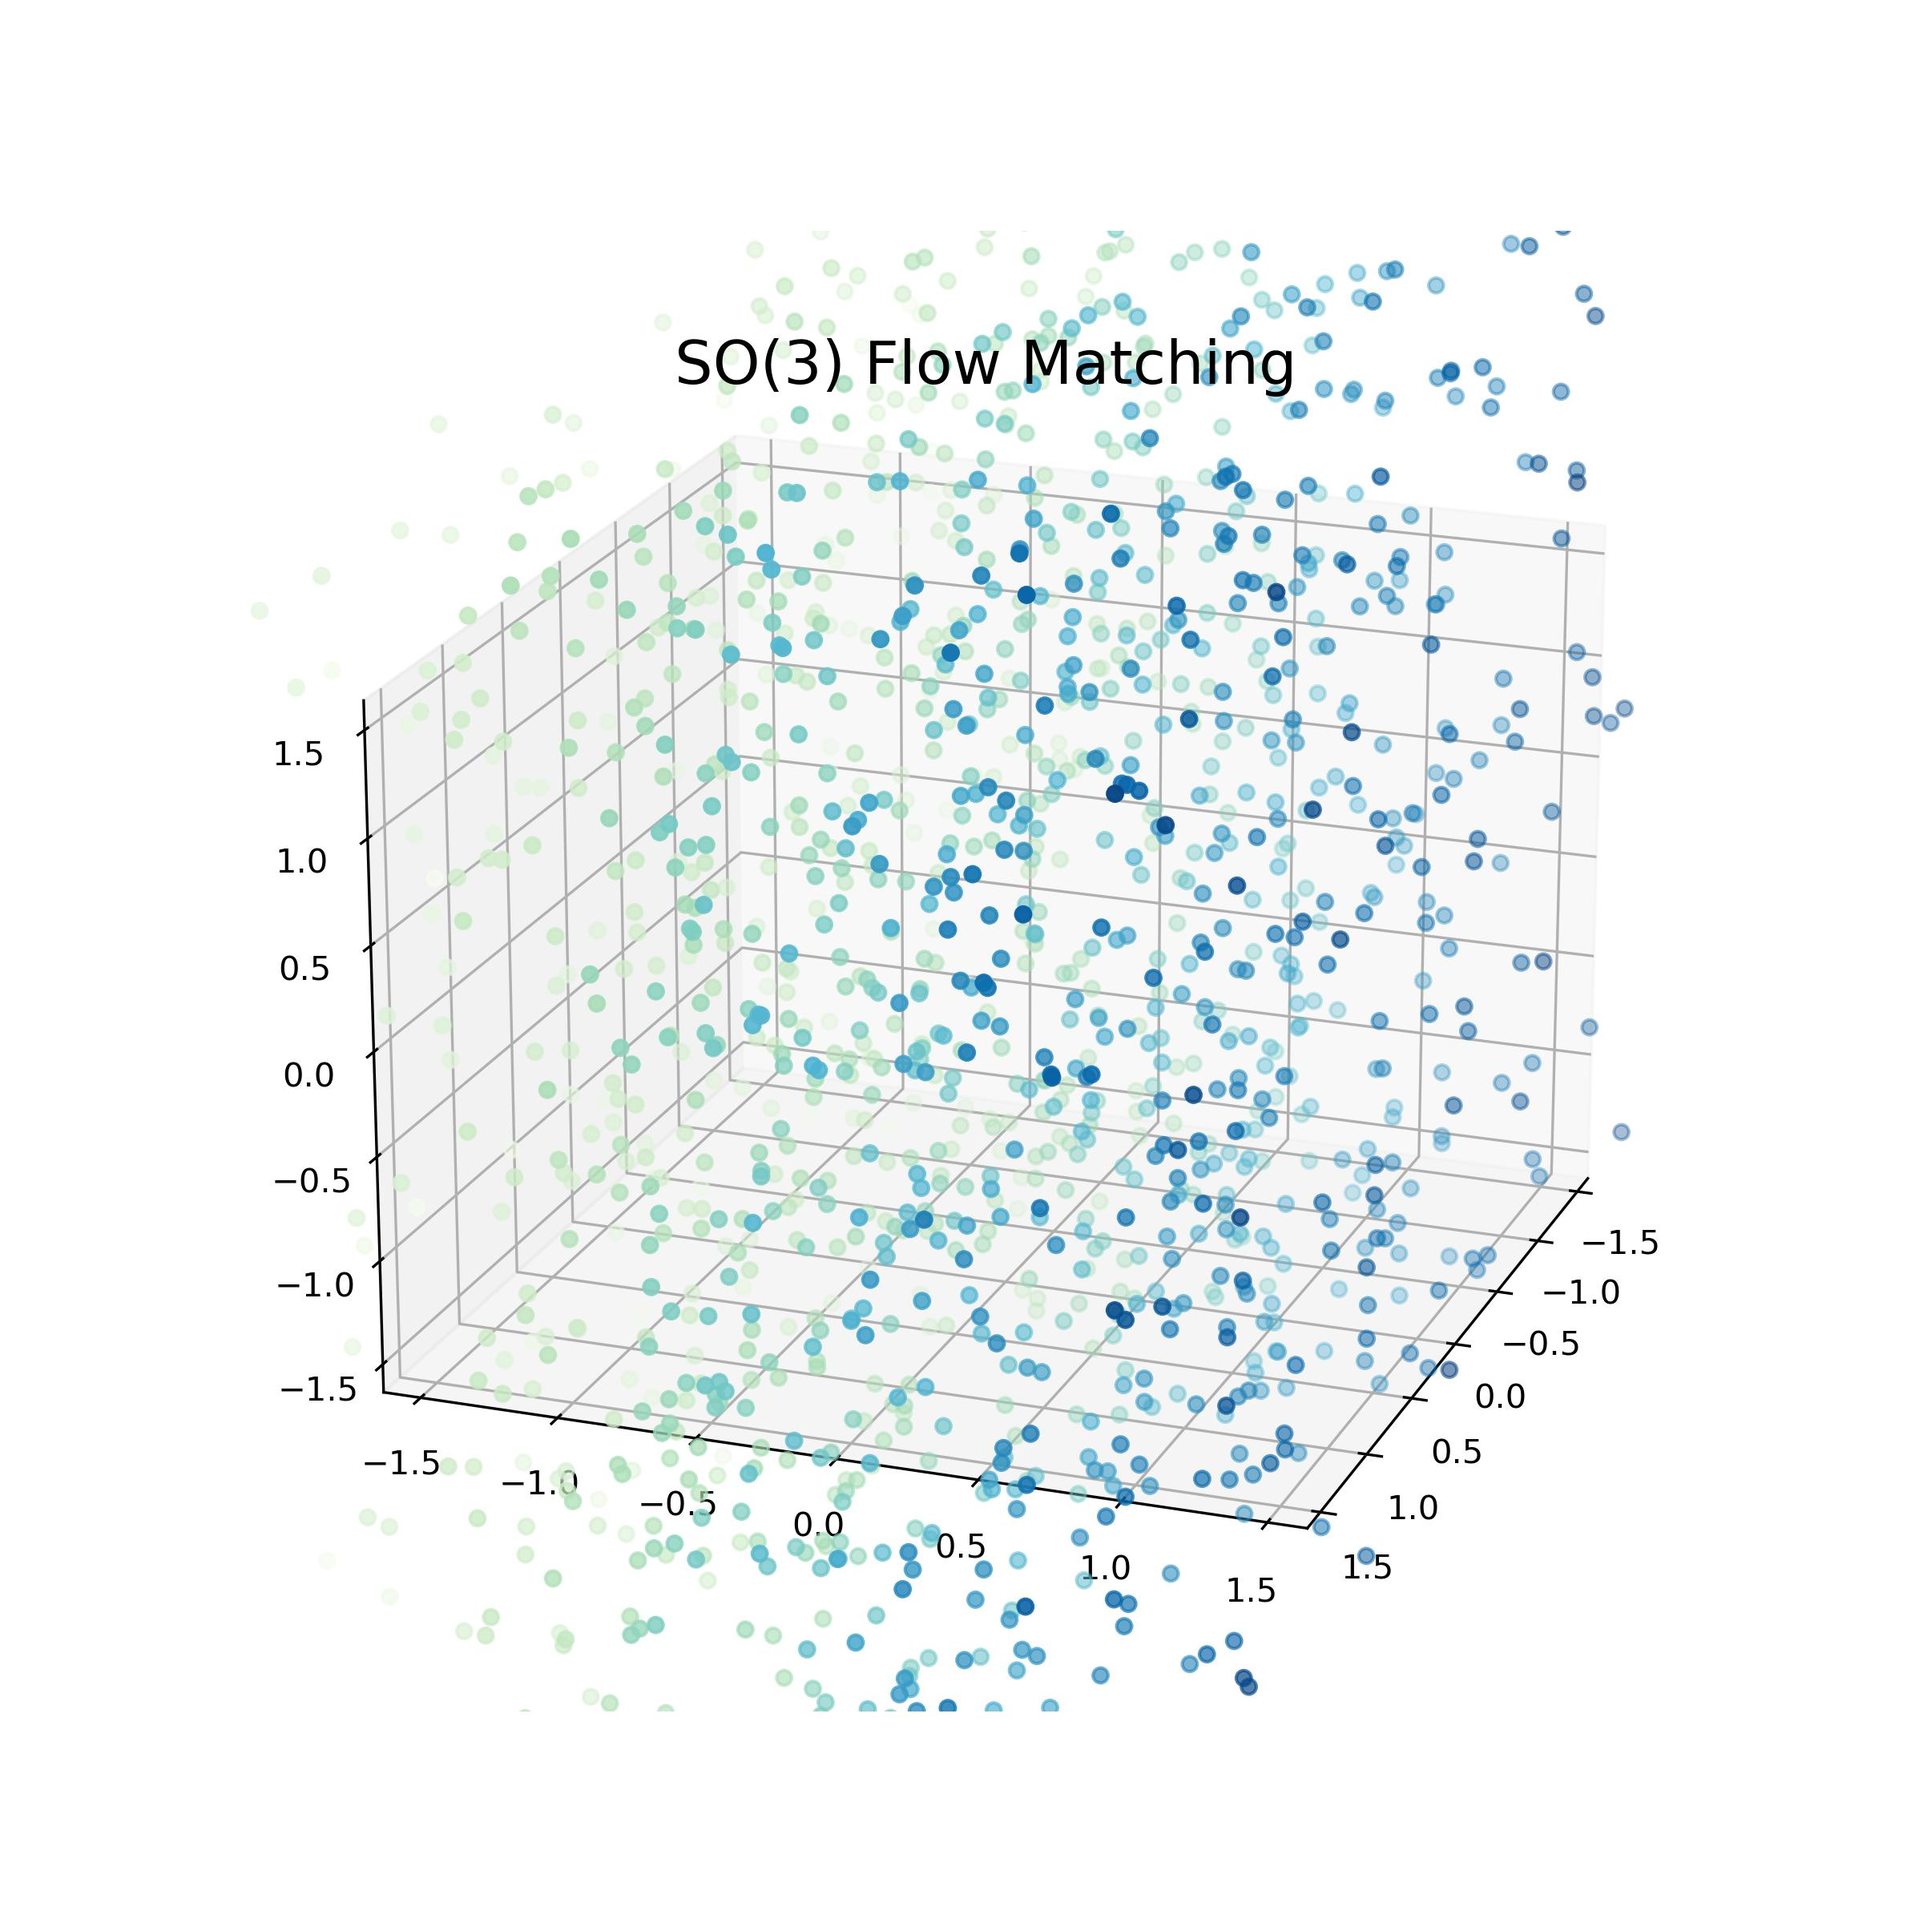
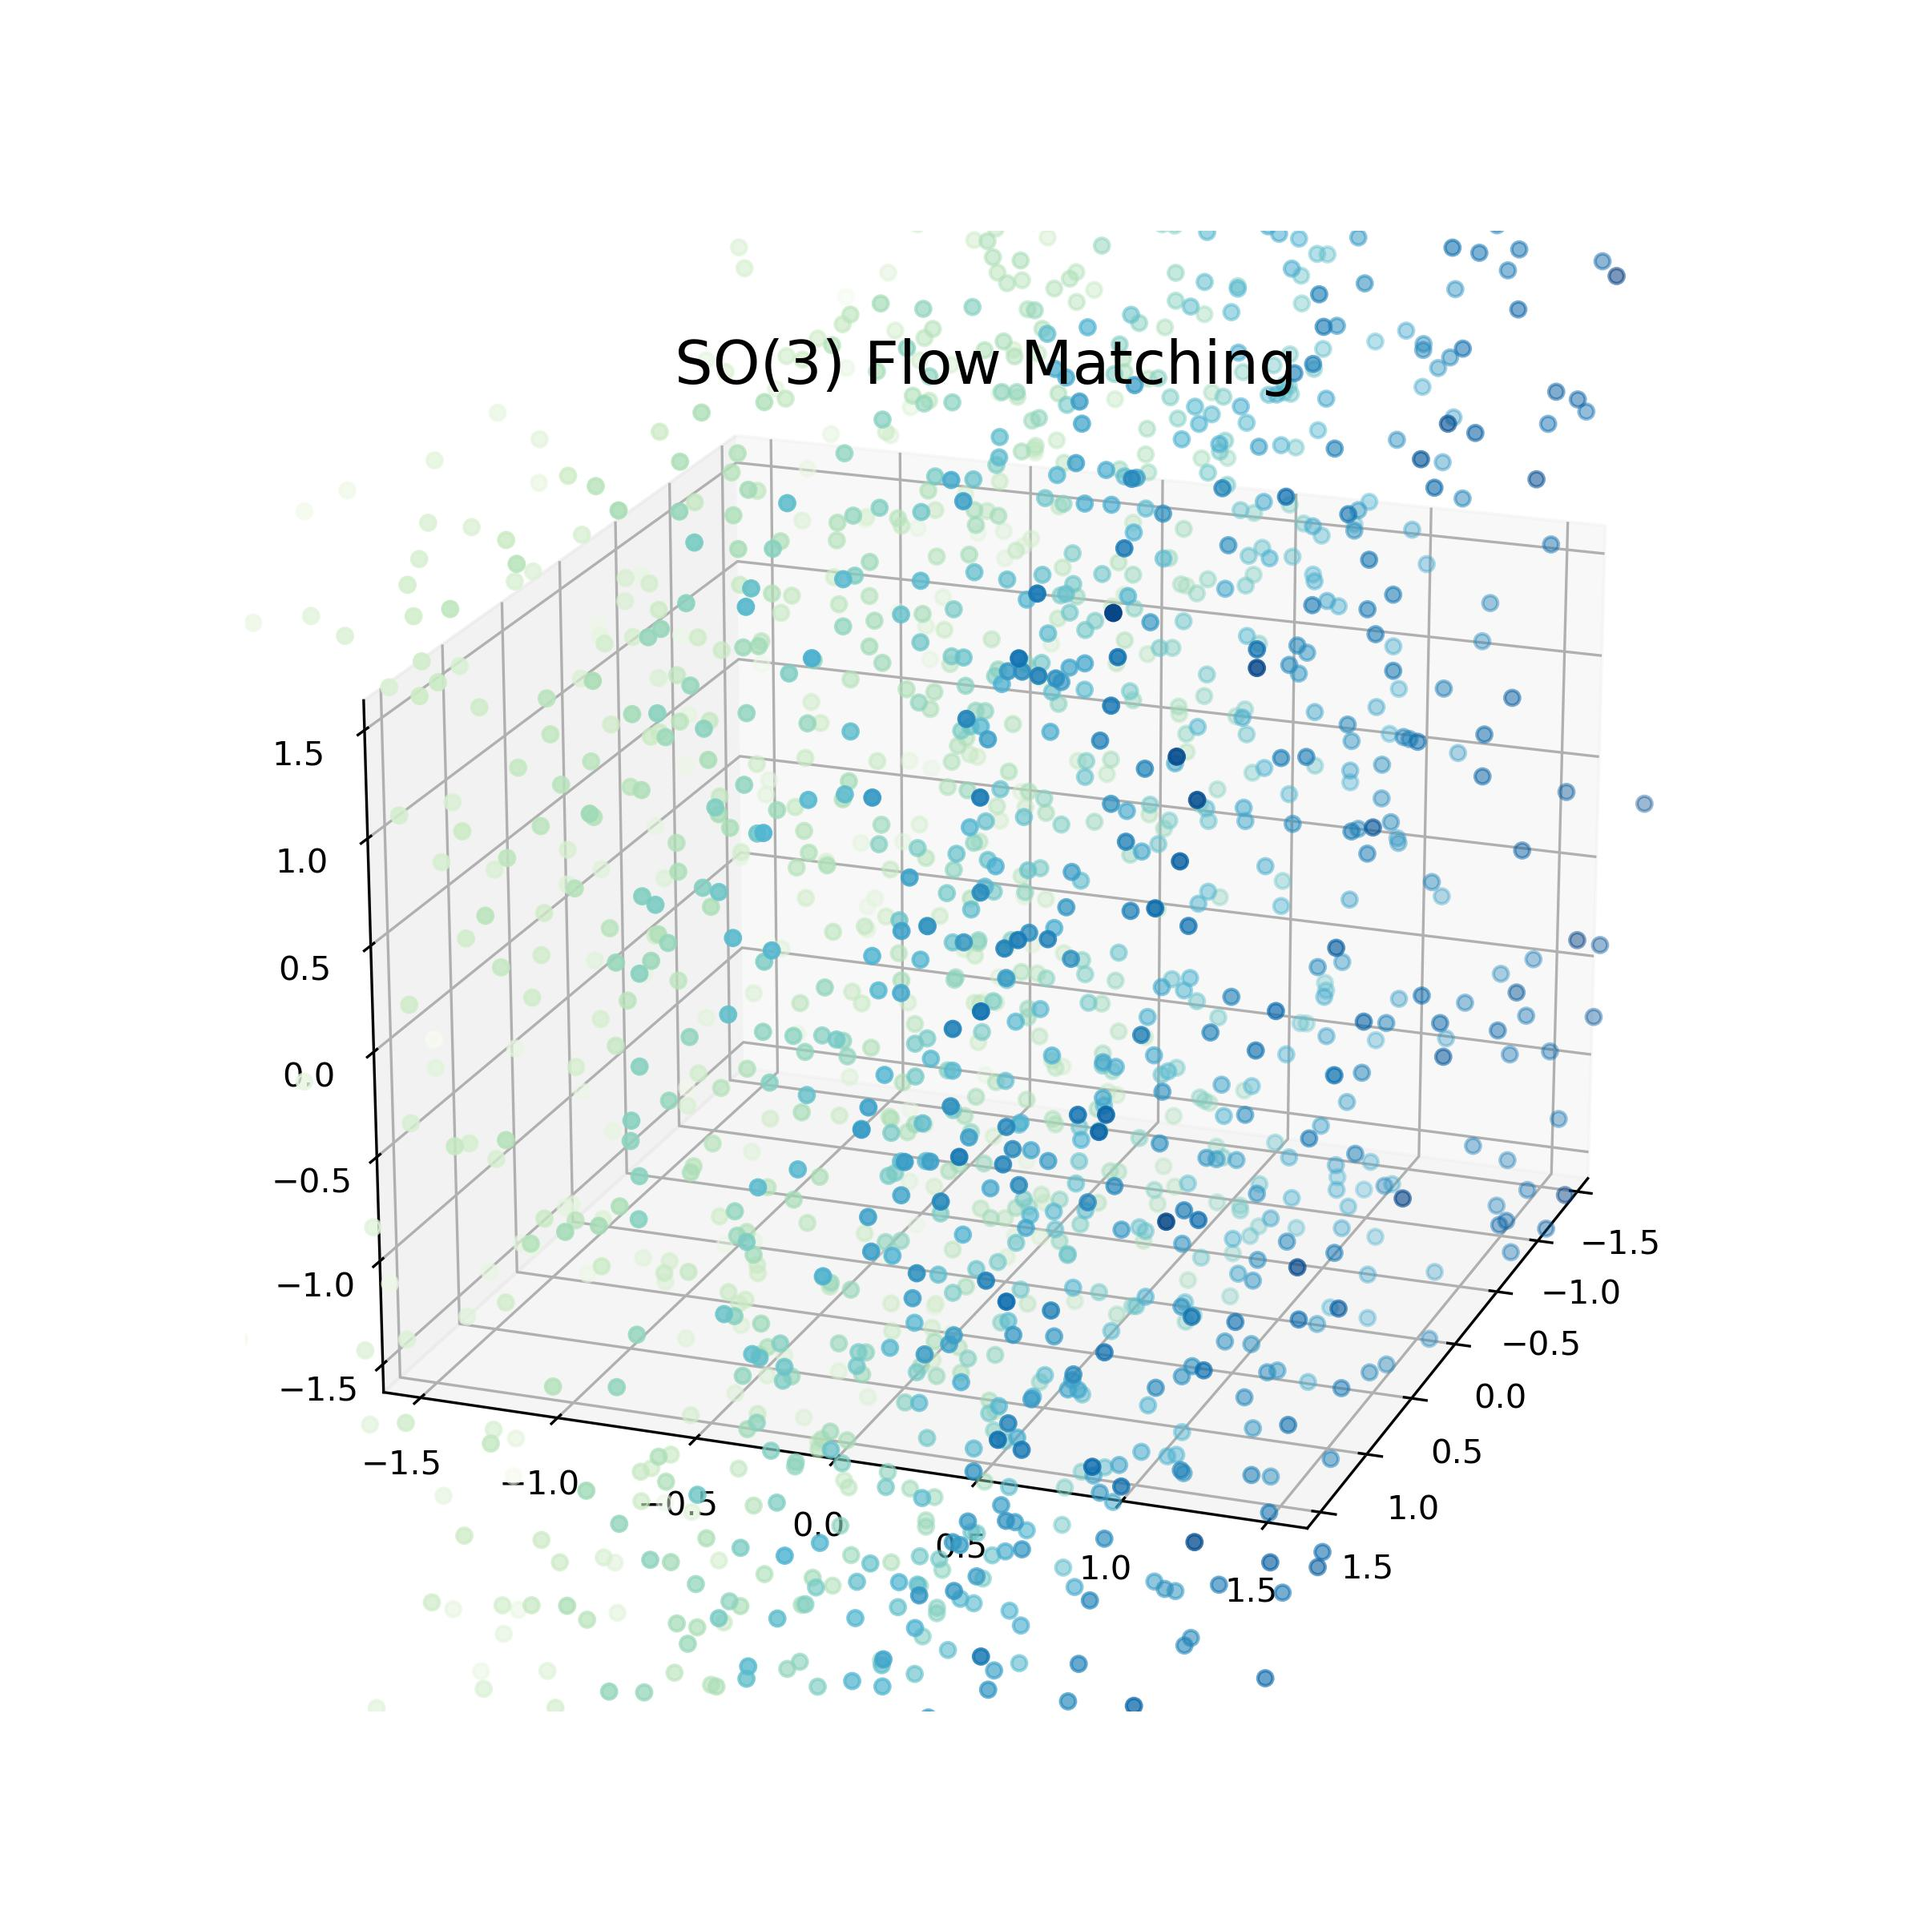
r3 exp done

diff --git a/mathematics/r3_experiments/r3_flow_matching.py b/mathematics/r3_experiments/r3_flow_matching.py
@@ -58,19 +58,18 @@ def sample_ref(n_samples: float = 1):
     return np.random.normal(size=(n_samples, 3))
 
 def loss_fn(v, u, x):
-    res = v - u
-    mse = torch.nn.MSELoss(reduction='mean')
-    loss = mse(x, res)
+    # res = v - u
+    # mse = torch.nn.MSELoss(reduction='mean')
+    # loss = mse(x, res)
+    mse = torch.nn.MSELoss(reduction='sum')
+    loss = mse(v, u)
     return loss
 
 def inference(model, xt, t, dt, center=False):
     with torch.no_grad():
         vt = model(torch.cat([xt, t[:, None]], dim=-1))
-        perturb = -vt * dt
+        perturb = vt * dt
         x_t_1 = xt + perturb
-        if center:
-            com = np.sum(x_t_1, axis=-2)
-            x_t_1 -= com[..., None, :]
     return x_t_1
 
 
@@ -91,7 +90,7 @@ def main_loop(model, optimizer, run_idx=0, num_epochs=150, display=True):
         final_traj = None
         if epoch % 10 == 0:
             n_test = testset.data.shape[0]
-            traj = torch.tensor(sample_ref(n_test)).to(device)
+            traj = torch.randn(size=(n_test, 3)).to(device)
             for t in torch.linspace(0, 1, 200):
                 t = torch.tensor([t]).to(device).repeat(n_test).requires_grad_(True)
                 dt = torch.tensor([1 / 200]).to(device)
@@ -108,20 +107,20 @@ def main_loop(model, optimizer, run_idx=0, num_epochs=150, display=True):
 
 
         if display and (epoch % 100)==0:
-            plot_r3(final_traj, adjust=True, title='R3 Flow Matching')
+            plot_r3(final_traj, title='R3 Flow Matching')
             plt.savefig(os.path.join(savedir, f"dataset_{dataset_name.split('.')[0]}_run{run_idx}_epoch{epoch}.jpg"))
             plt.show()
             print('wassterstein-1 distance:', w_d1)
 
         for _, data in enumerate(trainloader):
             optimizer.zero_grad()
-            x1 = data
-            x0 = torch.randn(size=(len(x1), 1, 3)).to(device)
+            x1 = data.squeeze()
+            x0 = torch.randn(size=(len(x1), 3))
 
-            t, xt, ut = R3FM.sample_location_and_conditional_flow(x0.double(), x1.double())
+            t, xt, ut = R3FM.sample_location_and_conditional_flow_simple(x0.double(), x1.double())
             t = t.to(device)
-            xt = xt.to(device)
-            ut = ut.to(device)
+            xt = xt.squeeze().to(device)
+            ut = ut.squeeze().to(device)
 
             vt = model(torch.cat([xt, t[:, None]], dim=-1))
 
@@ -150,7 +149,7 @@ for i in range(num_runs):
     dim = 3  # network ouput is 3 dimensional (rot_vec matrix)
     model = MLP(dim=dim, time_varying=True).double().to(device)
     optimizer = torch.optim.Adam(model.parameters(), lr=1e-3, weight_decay=1e-5)
-    model, losses, w1ds, w2ds = main_loop(model, optimizer, run_idx=i, num_epochs=1000, display=True)
+    model, losses, w1ds = main_loop(model, optimizer, run_idx=i, num_epochs=1000, display=True)
 
     w1ds_runs.append(w1ds)
     losses_runs.append(losses)

diff --git a/lightning/data/foldflow/condflowmatcher.py b/lightning/data/foldflow/condflowmatcher.py
@@ -172,6 +172,43 @@ class ConditionalFlowMatcher:
         else:
             return t, xt, ut
 
+    def sample_location_and_conditional_flow_simple(self, x0, x1, return_noise=False):
+        """
+        Compute the sample xt (drawn from N(t * x1 + (one - t) * x0, sigma))
+        and the conditional vector field ut(x1|x0) = x1 - x0, see Eq.(15) [one].
+
+        Parameters
+        ----------
+        x0 : Tensor, shape (bs, dim)
+            represents the source minibatch
+        x1 : Tensor, shape (bs, dim)
+            represents the source minibatch
+        return_noise : bool
+            return the noise sample epsilon
+
+
+        Returns
+        -------
+        t : float, shape (bs, one)
+        xt : Tensor, shape (bs, dim)
+            represents the samples drawn from probability path pt
+        ut : conditional vector field ut(x1|x0) = x1 - x0
+        (optionally) eps: Tensor, shape (bs, dim) such that xt = mu_t + sigma_t * epsilon
+
+        References
+        ----------
+        [one] Improving and Generalizing Flow-Based Generative Models with minibatch optimal transport, Preprint, Tong et al.
+        """
+        t = torch.rand(x0.shape[0]).type_as(x0)
+        eps = 0
+        xt = self.sample_xt(x0, x1, t, eps)
+
+        ut = self.compute_conditional_flow(x0, x1, t, xt)
+        if return_noise:
+            return t, xt, ut, eps
+        else:
+            return t, xt, ut
+
     def compute_lambda(self, t):
         """Compute the lambda function, see Eq.(XXX) [one].
 

diff --git a/mathematics/r3_experiments/r3_score_matching.py b/mathematics/r3_experiments/r3_score_matching.py
@@ -140,7 +140,7 @@ for i in range(num_runs):
     dim = 3  # network ouput is 3 dimensional (trans_vec matrix)
     model = MLP(dim=dim, time_varying=True).to(device)
     optimizer = torch.optim.Adam(model.parameters(), lr=1e-3, weight_decay=1e-5)
-    model, losses, w1ds, w2ds = main_loop(model, optimizer, run_idx=i, num_epochs=1000, display=True)
+    model, losses, w1ds = main_loop(model, optimizer, run_idx=i, num_epochs=1000, display=True)
 
     w1ds_runs.append(w1ds)
     losses_runs.append(losses)

diff --git a/mathematics/r3_experiments/r3_ddpm.py b/mathematics/r3_experiments/r3_ddpm.py
@@ -136,7 +136,7 @@ for i in range(num_runs):
     dim = 3  # network ouput is 3 dimensional (rot_vec matrix)
     model = MLP(dim=dim, time_varying=True).to(device)
     optimizer = torch.optim.Adam(model.parameters(), lr=1e-3, weight_decay=1e-5)
-    model, losses, w1ds, w2ds = main_loop(model, optimizer, run_idx=i, num_epochs=1000, display=True)
+    model, losses, w1ds = main_loop(model, optimizer, run_idx=i, num_epochs=1000, display=True)
 
     w1ds_runs.append(w1ds)
     losses_runs.append(losses)

diff --git a/lightning/model/foldflow/lightning_model.py b/lightning/model/foldflow/lightning_model.py
@@ -29,8 +29,7 @@ import time
 LOG = logging.getLogger(__name__)
 
 
-# TODO foldflow-model
-# TODO eval_fn
+
 class foldflow_Lightning_Model(pl.LightningModule):
     def __init__(self, conf):
         super().__init__()
